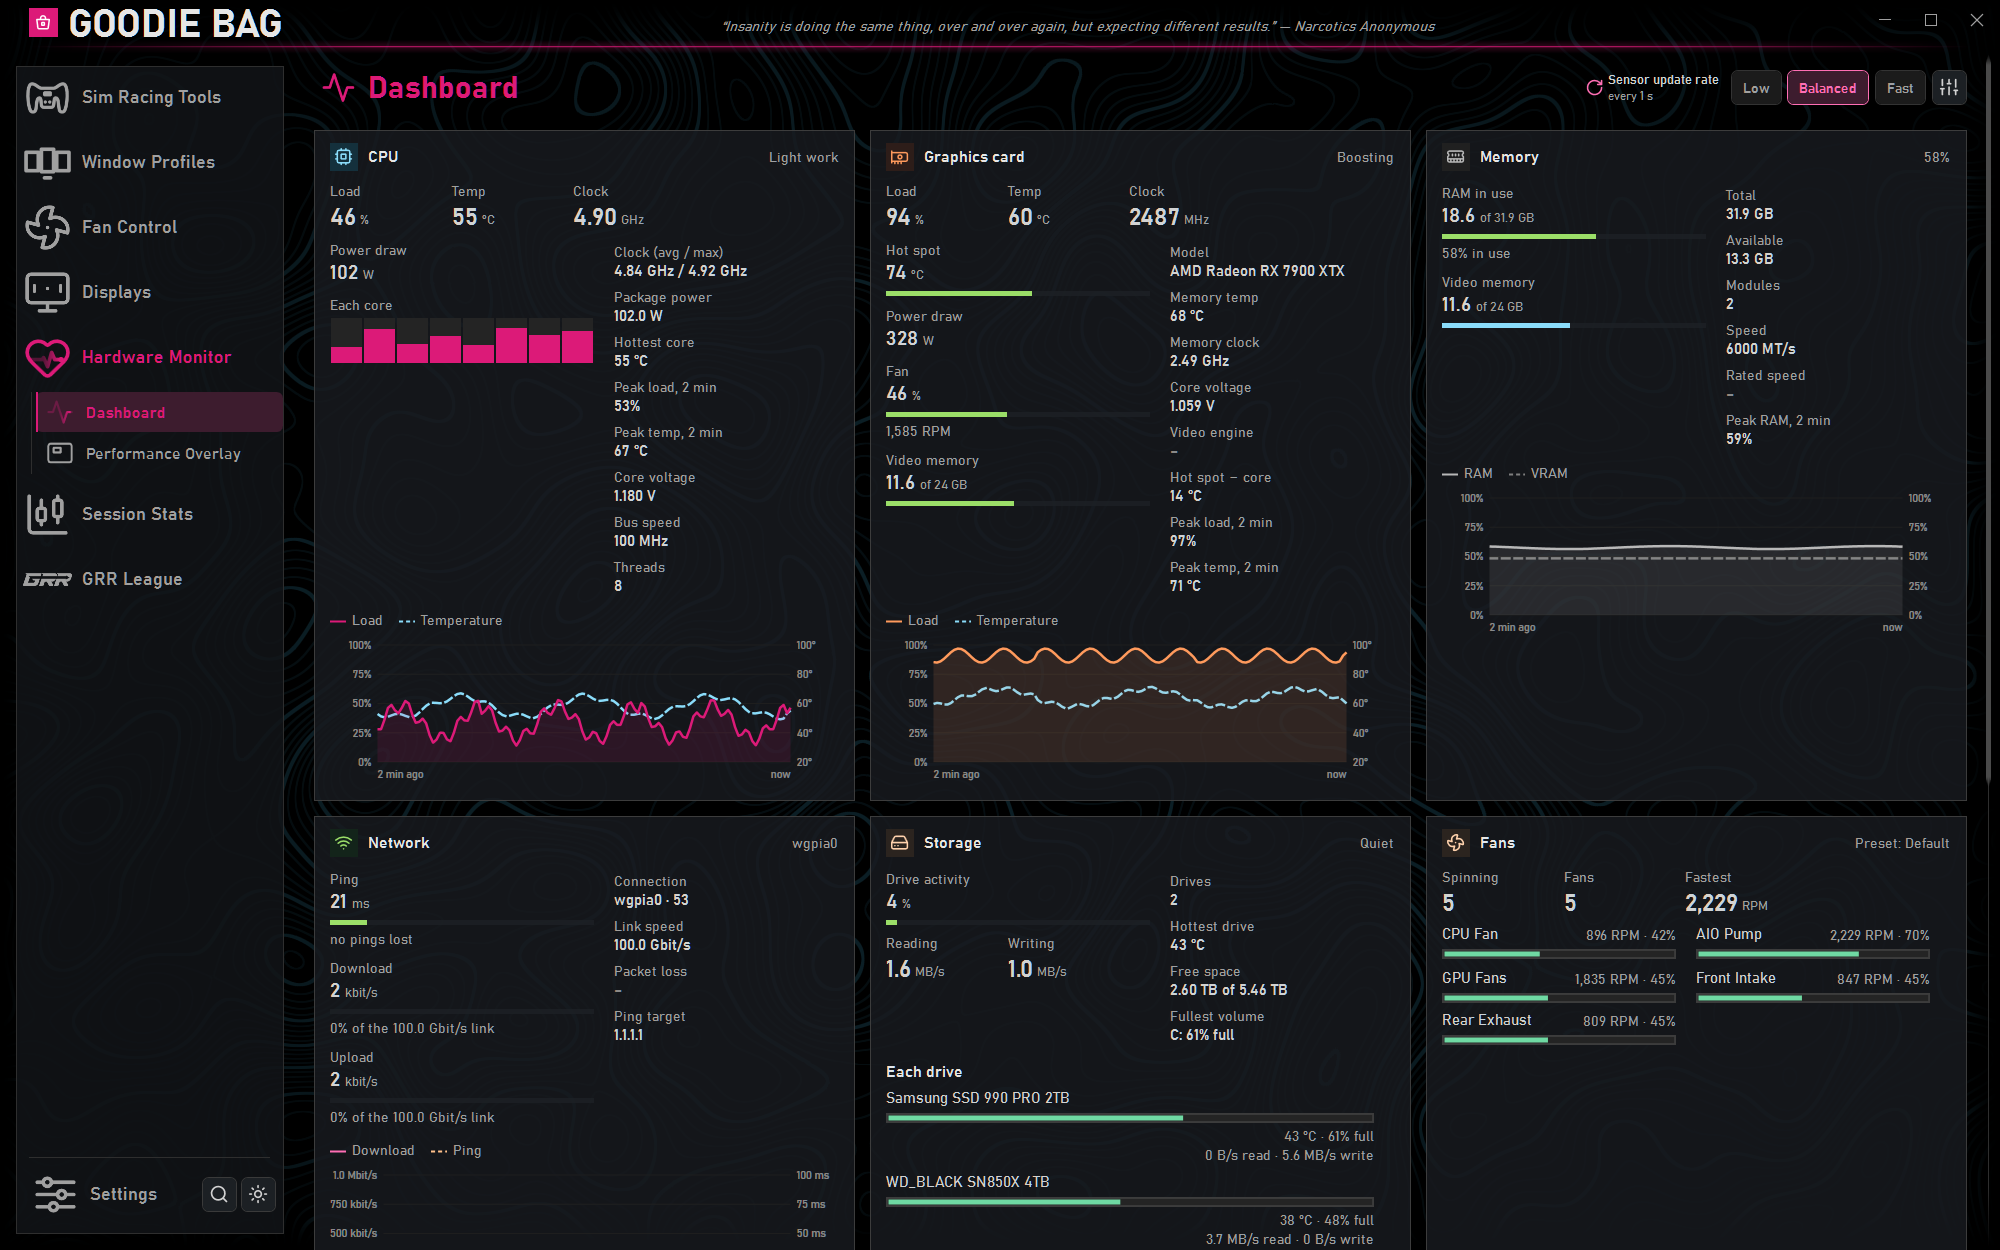
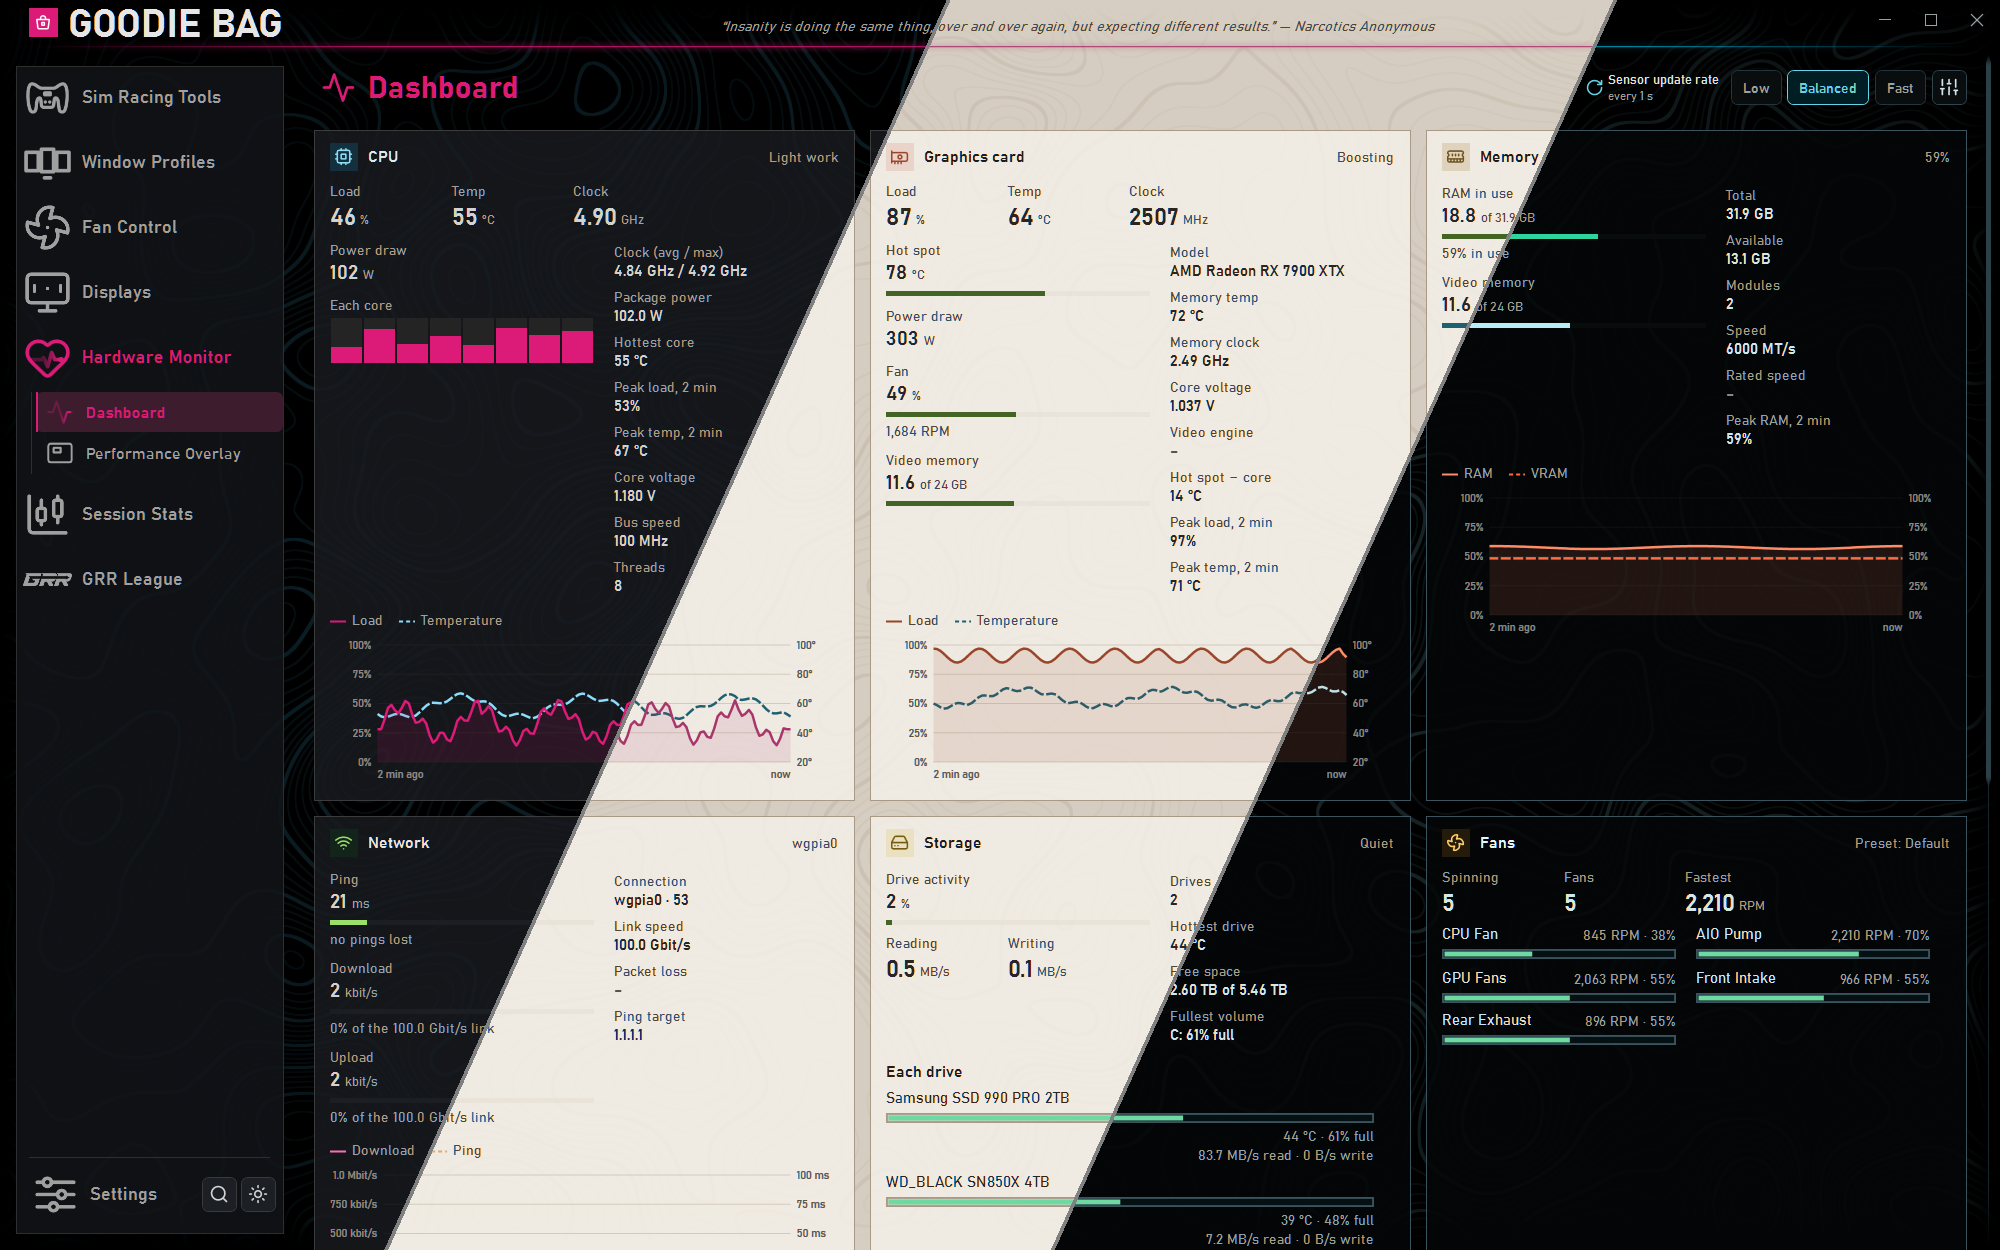
Update

diff --git a/src/GoodieBag/Theme/CustomPalette.cs b/src/GoodieBag/Theme/CustomPalette.cs
@@ -42,9 +42,12 @@ internal static class CustomPalette
 
     private static Color Pick(string hex, string fallback) => Parse(hex) ?? Parse(fallback)!.Value;
 
-    public static IReadOnlyDictionary<string, Color> Build(ThemeColors seeds)
+    public static readonly IReadOnlyDictionary<string, Color> Default = Derive(ThemeColors.Default);
+
+    public static IReadOnlyDictionary<string, Color> Build(ThemeColors seeds) => seeds.IsDefault ? Default : Derive(seeds);
+
+    private static IReadOnlyDictionary<string, Color> Derive(ThemeColors seeds)
     {
-        if (seeds.IsDefault) return Palettes.Custom;
         var d = ThemeColors.Default;
         Color bg = Pick(seeds.Background, d.Background), edge = Pick(seeds.Edges, d.Edges), text = Pick(seeds.Text, d.Text),
             accent = Pick(seeds.Accent, d.Accent), hi = Pick(seeds.Highlight, d.Highlight), ok = Pick(seeds.Success, d.Success),
@@ -84,6 +87,7 @@ internal static class CustomPalette
         var onAccent = ThemeManager.Contrast(Colors.White, accent) >= 3 ? Light(accent, 0.96) : Dark(accent, 0.85);
         var accentText = ReadableOn(accent, bg);
         var pressed = Dark(accent, 0.23);
+        if (ThemeManager.Contrast(onAccent, pressed) < 4.5) pressed = Dark(accent, 0.12);
         p["Accent"] = p["AccentEdge"] = p["PrimaryEdge"] = p["PrimaryHover"] = p["SwitchOnBorder"] = p["SwitchOnKnob"] = p["LogoFg"] = p["LogoEdge"] = accent;
         p["Meter1"] = p["Meter2"] = p["Meter3"] = accent;
         p["AccentHover"] = Light(accent, 0.18);

diff --git a/src/GoodieBag/Config/CustomThemeSettings.cs b/src/GoodieBag/Config/CustomThemeSettings.cs
@@ -22,13 +22,13 @@ public sealed class CustomThemeSettings
 public sealed class ThemeColors
 {
     public string Background { get; set; } = "#000000";
-    public string Edges { get; set; } = "#775869";
-    public string Text { get; set; } = "#F5ECEE";
-    public string Accent { get; set; } = "#DB156B";
-    public string Highlight { get; set; } = "#00FFD0";
-    public string Success { get; set; } = "#3DDC84";
-    public string Warning { get; set; } = "#FFB224";
-    public string Error { get; set; } = "#FF4545";
+    public string Edges { get; set; } = "#4A6A78";
+    public string Text { get; set; } = "#E6F6FA";
+    public string Accent { get; set; } = "#00B4D8";
+    public string Highlight { get; set; } = "#90E0EF";
+    public string Success { get; set; } = "#2DD4A0";
+    public string Warning { get; set; } = "#FFC145";
+    public string Error { get; set; } = "#FF5A5F";
 
     public static readonly ThemeColors Default = new();
 

diff --git a/src/GoodieBag/Theme/Themes.cs b/src/GoodieBag/Theme/Themes.cs
@@ -78,7 +78,7 @@ internal static class Themes
 
     public static readonly ThemeSpec Custom = new()
     {
-        Id = AppTheme.Custom, Name = DefaultCustomName, Dark = true, Colors = Palettes.Custom, Partner = AppTheme.Light,
+        Id = AppTheme.Custom, Name = DefaultCustomName, Dark = true, Colors = CustomPalette.Default, Partner = AppTheme.Light,
         CardEdge = Hairline, LogoEdge = new(1.5),
         Glow = true, GlowStrength = 0.45, StepsClimb = false, Track = TrackShape.Chicane,
         TrackBoost = 1.5,
